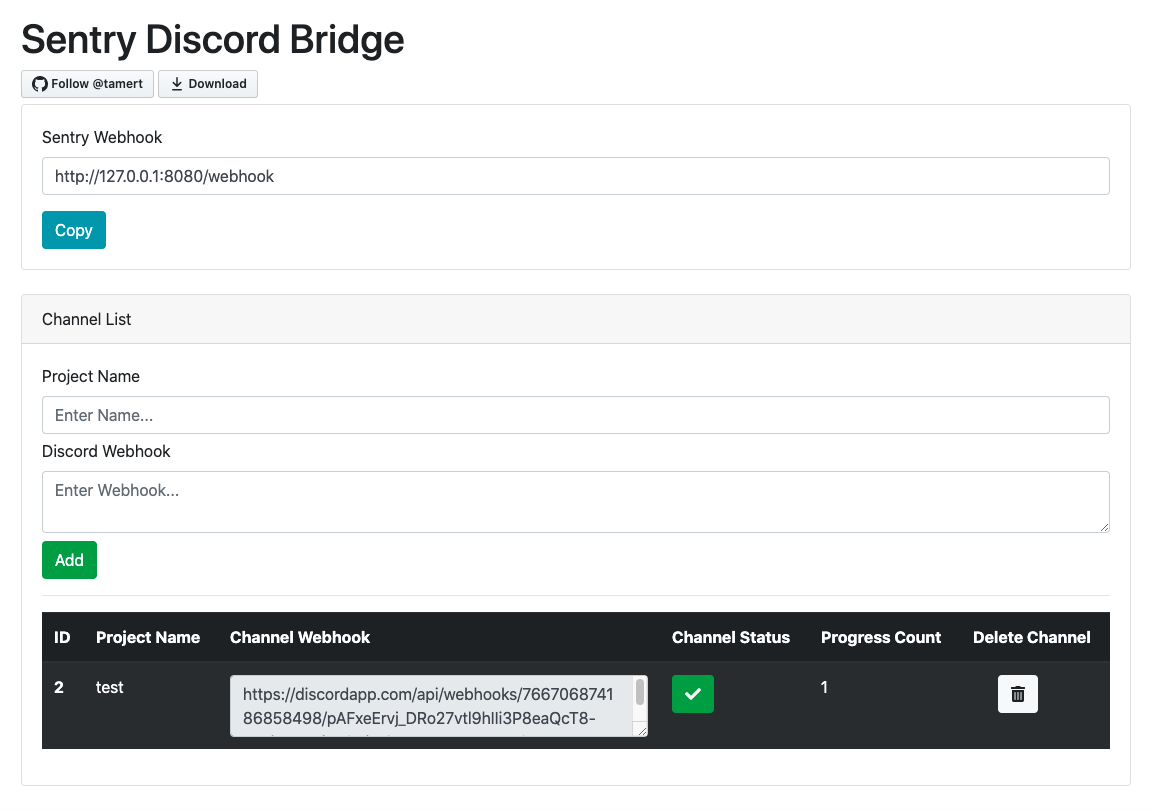
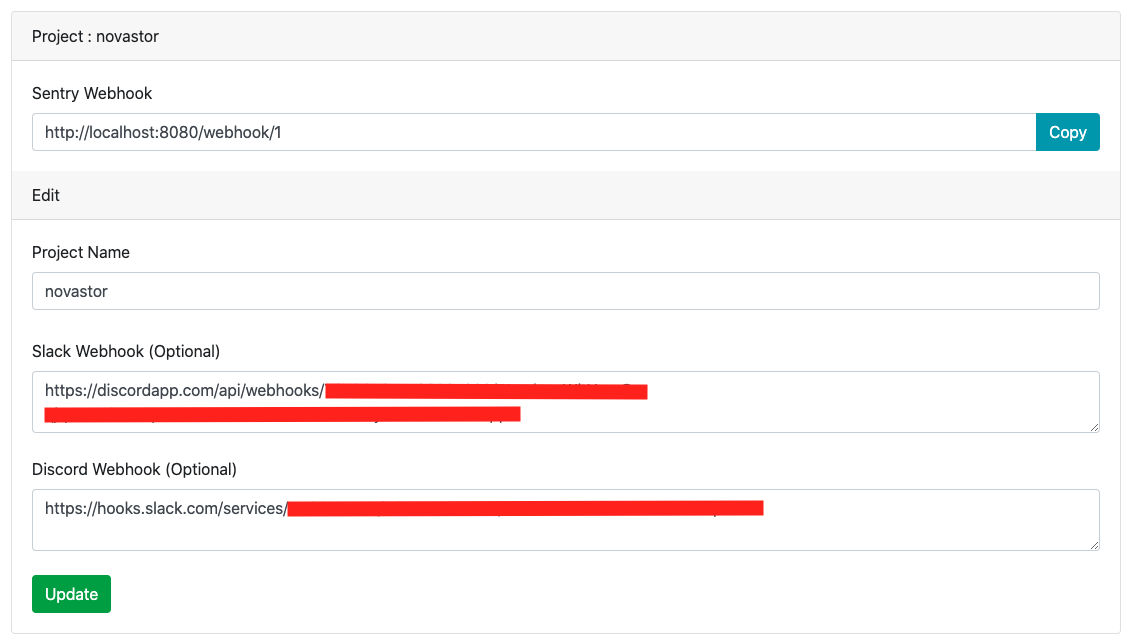
added slack

diff --git a/templates/detail.html b/templates/detail.html
@@ -23,21 +23,23 @@
         </div>
     </div>
 
+    <div class="card-header">
+        <span>Edit</span>
+    </div>
     <div class="card-body">
-        <label>Edit</label>
         <form action="/edit/{{ channel.id }}" method="post">
-            <div class="form-group">
-                <label for="name">Project Name</label>
-                <input style="margin-bottom:5px" type="text" class="form-control" name="name"
-                       id="name"
-                       value="{{ channel.name }}"
-                       placeholder="Enter Name...">
-                <label for="webhook">Discord Webhook</label>
-                <textarea name="webhook" id="webhook" class="form-control"
-                          placeholder="Enter Webhook...">{{ channel.webhook }}</textarea>
-                <button type="submit" class="btn mt-2 btn-success">Edit</button>
-            </div>
-            <hr>
+            <label for="name">Project Name</label>
+            <input style="margin-bottom:5px" type="text" class="form-control" name="name"
+                   id="name"
+                   value="{{ channel.name }}"
+                   placeholder="Enter Name...">
+            <label class="mt-4" for="slack_webhook">Slack Webhook (Optional)</label>
+            <textarea name="slack_webhook" id="slack_webhook" class="form-control"
+                      placeholder="Enter Webhook...">{{ channel.slack_webhook }}</textarea>
+            <label class="mt-4" for="discord_webhook">Discord Webhook (Optional)</label>
+            <textarea name="discord_webhook" id="discord_webhook" class="form-control"
+                      placeholder="Enter Webhook...">{{ channel.discord_webhook }}</textarea>
+            <button type="submit" class="btn mt-4 btn-success">Update</button>
         </form>
     </div>
 </div>
@@ -53,6 +55,8 @@
         clipboard.on('error', function(e) {
         console.log(e);
         });
+
+
 </script>
 
 {% endblock %}

diff --git a/templates/index.html b/templates/index.html
@@ -12,9 +12,6 @@
                         <input style="margin-bottom:5px" type="text" class="form-control" name="name"
                                id="formGroupExampleInput"
                                placeholder="Enter Name...">
-                        <label for="webhook">Discord Webhook</label>
-                        <textarea name="webhook" id="webhook" class="form-control"
-                                  placeholder="Enter Webhook..."></textarea>
                         <button type="submit" class="btn mt-2 btn-success">Add</button>
                     </div>
                 </form>

diff --git a/templates/layout.html b/templates/layout.html
@@ -29,7 +29,7 @@
                 <a class="nav-link" href="/">Dashboard</a>
             </li>
             <li class="nav-item">
-                <a class="nav-link" href="/">Link</a>
+                <a class="nav-link disabled" href="/">Issues (coming soon)</a>
             </li>
         </ul>
         <form class="form-inline my-2 my-lg-0">

diff --git a/app.py b/app.py
@@ -20,7 +20,8 @@ class Channel(db.Model):
     id = db.Column(db.Integer, primary_key=True)
     name = db.Column(db.String(80))
     slug = db.Column(db.String(80))
-    webhook = db.Column(db.String(300))
+    slack_webhook = db.Column(db.String(300))
+    discord_webhook = db.Column(db.String(300))
     count = db.Column(db.Integer)
     user_id = db.Column(db.Integer)
     active = db.Column(db.Boolean)
@@ -50,8 +51,7 @@ def detail(id):
 @app.route("/add", methods=["POST"])
 def add_channel():
     name = request.form.get("name")
-    webhook = request.form.get("webhook")
-    new_channel = Channel(name=name, webhook=webhook, count=0, active=True)
+    new_channel = Channel(name=name, slack_webhook="", discord_webhook="", count=0, active=True)
     db.session.add(new_channel)
     db.session.commit()
 
@@ -81,46 +81,45 @@ def webhook(id):
         unix_timestamp = float(event["timestamp"])
         local_timezone = tzlocal.get_localzone()  # get pytz timezone
         local_time = datetime.fromtimestamp(unix_timestamp, local_timezone)
-        res = requests.post(channel.webhook,
-                            json={"username": "sentry",
-                                  "embeds": [
-                                      {
-                                          "title": title,
-                                          "description": event["title"],
-                                          "fields": [
-                                              {
-                                                  "name": "Location",
-                                                  "value": event["location"]
-                                              },
-                                              {
-                                                  "name": "Date",
-                                                  "value": str(local_time)
-                                              }
-                                          ],
-                                          "color": "15746887"
-                                      }
-                                  ],
-                                  "content": "Visit issue: <%s>" % url
-                                  }
-                            )
-        if res.ok:
-            return app.response_class(
-                response=json.dumps({
-                    "success": True,
-                    "message": "Channel added a new issue"
-                }),
-                status=200,
-                mimetype='application/json'
-            )
-        else:
-            return app.response_class(
-                response=json.dumps({
-                    "success": False,
-                    "message": "Request webhook failed"
-                }),
-                status=400,
-                mimetype='application/json'
-            )
+
+        if channel.slack_webhook:
+            requests.post(channel.slack_webhook,
+                          json={"username": "sentry",
+                                "embeds": [
+                                    {
+                                        "title": title,
+                                        "description": event["title"],
+                                        "fields": [
+                                            {
+                                                "name": "Location",
+                                                "value": event["location"]
+                                            },
+                                            {
+                                                "name": "Date",
+                                                "value": str(local_time)
+                                            }
+                                        ],
+                                        "color": "15746887"
+                                    }
+                                ],
+                                "content": "Visit issue: <%s>" % url
+                                }
+                          )
+
+        if channel.discord_webhook:
+            requests.post(channel.discord_webhook,
+                          json={
+                              "text": "%s \n%s \nDate: %s \nVisit: %s" % (title, event["title"], str(local_time), url)}
+                          )
+
+        return app.response_class(
+            response=json.dumps({
+                "success": True,
+                "message": "Channel added a new issue"
+            }),
+            status=200,
+            mimetype='application/json'
+        )
 
     else:
         return app.response_class(
@@ -145,9 +144,11 @@ def active_channel(id):
 def edit(id):
     channel = Channel.query.filter_by(id=id).first()
     name = request.form.get("name")
-    webhook = request.form.get("webhook")
+    discord_webhook = request.form.get("discord_webhook")
+    slack_webhook = request.form.get("slack_webhook")
     channel.name = name
-    channel.webhook = webhook
+    channel.discord_webhook = discord_webhook
+    channel.slack_webhook = slack_webhook
     db.session.commit()
     return redirect(url_for("detail", id=channel.id))
 

diff --git a/README.md b/README.md
@@ -1,8 +1,11 @@
 # sentry-discord-webhook
 
-This is a basic Flask App that accepts an incoming Sentry webhook and transforms it to the format expected by Discord.
+This is a basic Flask App that accepts an incoming Sentry webhook and transforms it to the format expected by Discord and Slack.
 
 ![Screenshot](screen.png)
 
-
+#Slack
 ![Screenshot](screen2.png)
+
+#Discord
+![Screenshot](screen3.png)
